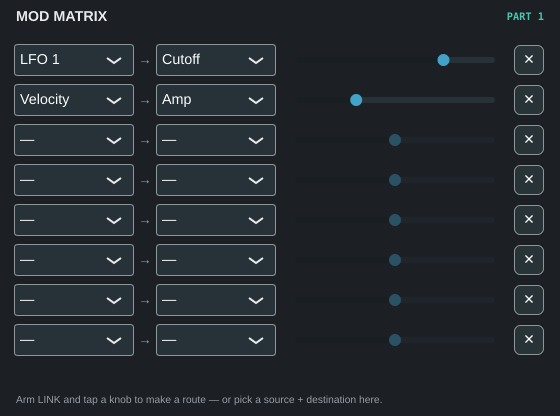
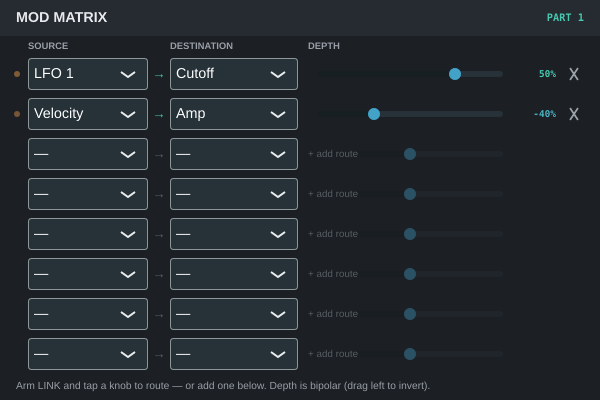
G5(#56): MOD overlay usability rework + docs
The overlay is reworked around the now ~40-target registry:
- CATEGORIZED dropdowns (section-headed by Osc/Filter/Env/LFO/FX/Part for dests, and
  LFO/Envelope/Performance/Macro for sources) — the flat list was unusable at this size.
- SOURCE / DESTINATION / DEPTH column headers; section-header title bar language.
- Numeric bipolar depth read-out (gold positive, cyan inverted) beside each bar.
- A DRAWN remove ✕ (juce::Button paint, no font-glyph/encoding hazard).
- Per-row live-activity dot — brightens with the route's current modulation (block-tier
  reads the live per-dest offset; voice-tier falls back to depth magnitude).
- "+ add route" cue on empty rows; remove hidden until a row is live.

Docs: README mod-matrix bullet rewritten for the registry ("any continuous parameter",
delay-feedback example, categorized overlay); v2 checklist item ticked. docs/editor.png
regenerated (LINK/MOD/INPUTS now in the top bar) and docs/smoke/mod-overlay.png shows the
reworked panel.

Gates: 367/367 (pluginval s8) + --sanitize 366/366 (memory-stable). Goldens bit-identical.

diff --git a/Source/UI/ModMatrixPanel.h b/Source/UI/ModMatrixPanel.h
@@ -8,31 +8,32 @@
 // ============================================================================
 // MOD MATRIX overlay (#56). A modal panel (same no-focus-leak discipline as the Save /
 // INPUTS dialogs) listing the FOCUSED part's 8 routing slots. Each row: a source, an
-// arrow, a destination, a bipolar depth slider (gold = positive, cyan = inverted), and a
-// remove. Routes are usually made by the LINK gesture (arm a source, tap a knob); this
-// overlay is where you inspect, re-point, re-depth, invert and delete them — and you can
-// build a route here from scratch with the two dropdowns.
+// arrow, a destination, a bipolar depth slider (gold = positive, cyan = inverted) with a
+// numeric read-out, a live-activity dot, and a drawn remove ✕. Routes are usually made by
+// the LINK gesture (arm a source, tap a knob); this overlay inspects, re-points, re-depths,
+// inverts and deletes them — or builds one from scratch with the two grouped dropdowns.
+// The destination list is CATEGORIZED (Osc / Filter / Env / LFO / FX / Part) so the ~40
+// targets stay navigable.
 // ============================================================================
 
 class ModMatrixPanel : public juce::Component,
                        private juce::Timer
 {
 public:
+    // Flat name lists indexed by enum id (item id = enum + 1) — used by the LINK source menu
+    // and by tests. The panel's own dropdowns are built grouped (see fillSource/fillDest).
     static juce::StringArray sourceNames()
     {
-        // Item 0 is the "no source" indicator (a real em-dash — must go through u8(); see UiText.h).
         juce::StringArray a { "LFO 1", "LFO 2", "LFO 3", "Mod Env", "Amp Env", "Velocity", "Note",
                               "Mod Wheel", "Pitch Bend", "Random",
                               "Macro 1", "Macro 2", "Macro 3", "Macro 4", "Macro 5", "Macro 6", "Macro 7", "Macro 8" };
-        a.insert (0, uitext::u8 ("\xe2\x80\x94"));
+        a.insert (0, uitext::u8 ("\xe2\x80\x94"));   // item 0 = "no source" (real em-dash via u8)
         return a;
     }
     static juce::StringArray destNames()
     {
-        // Ordered by ModMatrix::Dest id (item id = dest+1). Names come from the registry;
-        // a dest with no registry entry (reserved, e.g. PartLevel/Pan) shows a dash.
         juce::StringArray a;
-        a.add (uitext::u8 ("\xe2\x80\x94"));                       // DstNone
+        a.add (uitext::u8 ("\xe2\x80\x94"));         // DstNone
         for (int d = 1; d < ModMatrix::kNumDests; ++d)
         {
             const auto n = moddest::nameFor (d);
@@ -50,13 +51,12 @@ public:
             r.src  = std::make_unique<juce::ComboBox>();
             r.dst  = std::make_unique<juce::ComboBox>();
             r.depth = std::make_unique<juce::Slider> (juce::Slider::LinearHorizontal, juce::Slider::NoTextBox);
-            fill (*r.src, sourceNames());
-            fill (*r.dst, destNames());
+            fillSource (*r.src);
+            fillDest   (*r.dst);
             r.depth->setRange (-100.0, 100.0, 1.0);
             r.depth->setDoubleClickReturnValue (true, 0.0);
             for (auto* c : { (juce::Component*) r.src.get(), (juce::Component*) r.dst.get(), (juce::Component*) r.depth.get() })
                 { c->setWantsKeyboardFocus (false); addAndMakeVisible (c); }
-            r.remove.setButtonText (uitext::u8 ("\xe2\x9c\x95"));   // ✕ (decode as UTF-8, not ASCII)
             r.remove.setWantsKeyboardFocus (false);
             addAndMakeVisible (r.remove);
 
@@ -71,37 +71,55 @@ public:
             r.remove.onClick  = [this, idx] { proc.clearModSlot (-1, idx); refresh(); };
         }
         refresh();
-        setSize (560, 96 + VASynthProcessor::kModSlots * 40);
-        startTimerHz (20);   // live modulation bars
+        setSize (600, kHeaderH + kColsH + VASynthProcessor::kModSlots * kRowH + kFootH);
+        startTimerHz (20);   // live modulation dots
     }
 
     void paint (juce::Graphics& g) override
     {
         g.fillAll (VASynthLookAndFeel::panel());
+
+        // Title bar — section-header language.
+        auto title = getLocalBounds().removeFromTop (kHeaderH);
+        g.setColour (VASynthLookAndFeel::panelLight());
+        g.fillRect (title);
         g.setColour (VASynthLookAndFeel::ink());
         g.setFont (juce::Font (juce::FontOptions (16.0f, juce::Font::bold)));
-        g.drawText ("MOD MATRIX", getLocalBounds().removeFromTop (34).reduced (16, 0), juce::Justification::centredLeft, false);
+        g.drawText ("MOD MATRIX", title.reduced (16, 0), juce::Justification::centredLeft, false);
         g.setColour (VASynthLookAndFeel::accent());
         g.setFont (juce::Font (juce::FontOptions (juce::Font::getDefaultMonospacedFontName(), 12.0f, juce::Font::bold)));
-        g.drawText ("PART " + juce::String (proc.editFocus() + 1),
-                    getLocalBounds().removeFromTop (34).reduced (16, 0), juce::Justification::centredRight, false);
+        g.drawText ("PART " + juce::String (proc.editFocus() + 1), title.reduced (16, 0), juce::Justification::centredRight, false);
+
+        // Column headers.
+        g.setColour (VASynthLookAndFeel::dim());
+        g.setFont (juce::Font (juce::FontOptions (10.5f, juce::Font::bold)));
+        const auto& c0 = rows[0];
+        auto hdr = [&] (juce::Rectangle<int> b, const char* t, juce::Justification j)
+        { g.drawText (t, b.withY (kHeaderH + 4).withHeight (kColsH - 6), j, false); };
+        if (c0.src)   hdr (c0.src->getBounds(),   "SOURCE",      juce::Justification::centredLeft);
+        if (c0.dst)   hdr (c0.dst->getBounds(),   "DESTINATION", juce::Justification::centredLeft);
+        if (c0.depth) hdr (c0.depth->getBounds(), "DEPTH",       juce::Justification::centredLeft);
+
+        // Footer hint.
         g.setColour (VASynthLookAndFeel::dim());
         g.setFont (juce::Font (juce::FontOptions (11.5f)));
-        g.drawText (uitext::u8 ("Arm LINK and tap a knob to make a route \xe2\x80\x94 or pick a source + destination here."),
-                    juce::Rectangle<int> (16, getHeight() - 24, getWidth() - 32, 16), juce::Justification::centredLeft, false);
+        g.drawText (uitext::u8 ("Arm LINK and tap a knob to route \xe2\x80\x94 or add one below. Depth is bipolar (drag left to invert)."),
+                    juce::Rectangle<int> (16, getHeight() - kFootH + 4, getWidth() - 32, 16), juce::Justification::centredLeft, false);
     }
 
     void resized() override
     {
         auto c = getLocalBounds().reduced (14, 0);
-        c.removeFromTop (40);
+        c.removeFromTop (kHeaderH + kColsH);
         for (int i = 0; i < VASynthProcessor::kModSlots; ++i)
         {
-            auto row = c.removeFromTop (40).reduced (0, 4);
+            auto row = c.removeFromTop (kRowH).reduced (0, 4);
             auto& r = rows[(std::size_t) i];
+            row.removeFromLeft (14);                                    // activity-dot gutter
             r.src->setBounds  (row.removeFromLeft (120));               row.removeFromLeft (22);   // arrow gap
-            r.dst->setBounds  (row.removeFromLeft (120));               row.removeFromLeft (10);
-            r.remove.setBounds (row.removeFromRight (34).reduced (2, 1)); row.removeFromRight (8);
+            r.dst->setBounds  (row.removeFromLeft (128));               row.removeFromLeft (10);
+            r.remove.setBounds (row.removeFromRight (24).reduced (1, 3)); row.removeFromRight (6);
+            r.numArea = row.removeFromRight (44);                       // numeric depth read-out
             r.depthArea = row;
             r.depth->setBounds (row);
         }
@@ -109,15 +127,41 @@ public:
 
     void paintOverChildren (juce::Graphics& g) override
     {
-        // arrows between the two dropdowns + the live-modulation tick on each depth bar
-        g.setColour (VASynthLookAndFeel::accent());
-        g.setFont (juce::Font (juce::FontOptions (15.0f, juce::Font::bold)));
         for (int i = 0; i < VASynthProcessor::kModSlots; ++i)
         {
             auto& r = rows[(std::size_t) i];
+            const auto s = proc.getModSlot (-1, i);
+            const bool live = s.source != ModMatrix::SrcNone && s.dest != ModMatrix::DstNone;
+
+            // Arrow between the dropdowns.
             const auto sb = r.src->getBounds();
+            g.setColour (live ? VASynthLookAndFeel::accent() : VASynthLookAndFeel::dim().withAlpha (0.5f));
+            g.setFont (juce::Font (juce::FontOptions (15.0f, juce::Font::bold)));
             g.drawText (uitext::u8 ("\xe2\x86\x92"), juce::Rectangle<int> (sb.getRight(), sb.getY(), 22, sb.getHeight()),
                         juce::Justification::centred, false);
+
+            if (! live)
+            {
+                // Empty slot: a faint "+ add route" cue across the (disabled) depth area.
+                g.setColour (VASynthLookAndFeel::dim().withAlpha (0.5f));
+                g.setFont (juce::Font (juce::FontOptions (11.0f)));
+                g.drawText ("+ add route", r.depthArea.toNearestInt(), juce::Justification::centredLeft, false);
+                continue;
+            }
+
+            // Numeric depth read-out (gold positive, cyan inverted).
+            g.setColour (s.depth < 0.0f ? juce::Colour (0xff4bb3c4) : VASynthLookAndFeel::accent());
+            g.setFont (juce::Font (juce::FontOptions (juce::Font::getDefaultMonospacedFontName(), 11.0f, juce::Font::bold)));
+            g.drawText (juce::String (juce::roundToInt (s.depth * 100.0f)) + "%",
+                        r.numArea, juce::Justification::centredRight, false);
+
+            // Live-activity dot: brightens with the route's current modulation (block-tier reads
+            // the live per-dest offset; voice-tier pulses on the depth magnitude as a fallback).
+            const float act = liveActivity (s);
+            auto dot = juce::Rectangle<float> (getLocalBounds().reduced (16, 0).toFloat().getX() - 2.0f,
+                                               (float) r.depth->getBounds().getCentreY() - 3.0f, 6.0f, 6.0f);
+            g.setColour (VASynthLookAndFeel::accentWarm().withAlpha (0.25f + 0.75f * juce::jlimit (0.0f, 1.0f, act)));
+            g.fillEllipse (dot);
         }
     }
 
@@ -147,7 +191,6 @@ public:
         rows[(std::size_t) i].depth->setValue (depth * 100.0, juce::sendNotificationSync);
     }
 
-    // Public so the full edit path is testable without the GUI.
     void refresh()
     {
         for (int i = 0; i < VASynthProcessor::kModSlots; ++i)
@@ -160,24 +203,71 @@ public:
             const bool live = s.source != ModMatrix::SrcNone && s.dest != ModMatrix::DstNone;
             r.depth->setEnabled (live);
             r.depth->setAlpha (live ? 1.0f : 0.4f);
+            r.remove.setVisible (live);
         }
         repaint();
     }
 
 private:
-    static void fill (juce::ComboBox& box, const juce::StringArray& names)
+    // A drawn ✕ (no font-glyph dependency — see the mojibake defect).
+    struct XButton : juce::Button
     {
-        for (int i = 0; i < names.size(); ++i) box.addItem (names[i], i + 1);   // item id = enum + 1
+        XButton() : juce::Button ("remove") {}
+        void paintButton (juce::Graphics& g, bool over, bool) override
+        {
+            auto b = getLocalBounds().toFloat().reduced (getWidth() * 0.32f);
+            g.setColour (over ? juce::Colour (0xffd8443a) : VASynthLookAndFeel::dim());
+            g.drawLine (b.getX(), b.getY(), b.getRight(), b.getBottom(), 1.8f);
+            g.drawLine (b.getX(), b.getBottom(), b.getRight(), b.getY(), 1.8f);
+        }
+    };
+
+    // Grouped source dropdown (section headings keep item ids intact so setSelectedId/getText work).
+    void fillSource (juce::ComboBox& box)
+    {
+        box.addItem (uitext::u8 ("\xe2\x80\x94"), 1);                    // None (source 0 + 1)
+        auto add = [&] (int src) { box.addItem (sourceNames()[src], src + 1); };
+        box.addSectionHeading ("LFO");         for (int s = ModMatrix::LFO1; s <= ModMatrix::LFO3; ++s) add (s);
+        box.addSectionHeading ("Envelope");    add (ModMatrix::ModEnv); add (ModMatrix::AmpEnv);
+        box.addSectionHeading ("Performance"); for (int s = ModMatrix::Velocity; s <= ModMatrix::Random; ++s) add (s);
+        box.addSectionHeading ("Macro");       for (int s = ModMatrix::Macro1; s <= ModMatrix::Macro8; ++s) add (s);
         box.setSelectedId (1, juce::dontSendNotification);
     }
+
+    // Grouped destination dropdown, by registry category.
+    void fillDest (juce::ComboBox& box)
+    {
+        box.addItem (uitext::u8 ("\xe2\x80\x94"), 1);                    // None (dest 0 + 1)
+        for (int cat = 0; cat < moddest::kNumCategories; ++cat)
+        {
+            bool headed = false;
+            for (auto& e : moddest::table())
+                if (e.category == cat)
+                {
+                    if (! headed) { box.addSectionHeading (moddest::categoryName (cat)); headed = true; }
+                    box.addItem (e.name, e.dest + 1);
+                }
+        }
+        box.setSelectedId (1, juce::dontSendNotification);
+    }
+
+    float liveActivity (const ModMatrix::Slot& s) const
+    {
+        if (s.dest >= ModMatrix::kFirstBlockDest)
+            return std::abs (proc.blockModOffset (s.dest)) * 4.0f;      // block-tier: live per-dest offset
+        return std::abs (s.depth) * 0.6f;                              // voice-tier: fall back to depth magnitude
+    }
+
     void timerCallback() override { repaint(); }
+
+    static constexpr int kHeaderH = 36, kColsH = 18, kRowH = 40, kFootH = 26;
 
     struct Row
     {
         std::unique_ptr<juce::ComboBox> src, dst;
         std::unique_ptr<juce::Slider>   depth;
-        juce::TextButton                remove;
-        juce::Rectangle<int>            depthArea;
+        XButton                         remove;
+        juce::Rectangle<int>            depthArea, numArea;
     };
 
     VASynthProcessor& proc;

diff --git a/README.md b/README.md
@@ -30,11 +30,17 @@ a general-purpose synth that runs in any VST3 host or standalone.
 - **8 macros**, pre-assigned to musical defaults (cutoff, reso, filter-env, release, LFO
   rate/depth, reverb, focused-part level), routable to any parameter; Launchkey pots drive them.
 - **Mod matrix** (per part, 8 slots): route any source (3 LFOs, mod/amp env, velocity, note,
-  mod wheel, pitch bend, random, the 8 macros) to any destination (pitch, cutoff, resonance,
-  pulse width, amp, osc 1–3 level). Wire routes by **touch-connect** — hit **LINK**, pick a
-  source, then tap a glowing destination knob; drag that knob within ~2 s to set the depth in
-  one gesture. The **MOD** overlay lists, re-points, inverts, re-depths, and deletes routes.
-  Routes travel with the patch; the matrix is bit-identical passthrough when empty.
+  mod wheel, pitch bend, random, the 8 macros) to **any continuous parameter of the focused
+  part** — a categorized registry of ~40 targets across Osc (pitch, PW, levels, octave/detune),
+  Filter (cutoff, resonance, env-amt, keytrack, vel), Env (all ADSR stages + vel/amp), LFO
+  (1–3 rate/depth), FX (chorus/delay/reverb/width — e.g. an LFO or Macro wobbling **delay
+  feedback**), and per-part EQ gains. Combinations are just more slots (summed). The 5 classic
+  per-voice targets keep full per-voice fidelity; block-level targets (FX/EQ/LFO/env) modulate
+  at control rate. Wire routes by **touch-connect** — hit **LINK** (top bar), pick a source,
+  then tap a glowing destination knob; drag it within ~2 s to set the depth in one gesture. The
+  **MOD** overlay (categorized dropdowns, bipolar depth read-out, live-activity dots) inspects,
+  re-points, inverts, re-depths, and deletes routes. Routes travel with the patch; the matrix is
+  bit-identical passthrough when empty.
 - **Bulletproof output stage**: voice-sum headroom trim + transparent safety
   soft-clip, so the output never clips the DAC on dense chords.
 - **Diatonic chord engine**: one finger → an in-key chord (Major / Natural Minor,
@@ -444,7 +450,7 @@ out-of-range peaks, and non-finite samples. The `[click]` suite runs in every ga
   a show-all toggle) needs a custom `AudioDeviceManager`/plugin-holder — deferred.
 
 **v2 (make it deep)**
-- [ ] Mod matrix (any source → any destination, replaces single LFO dest)
+- [x] Mod matrix — any source → any continuous parameter (registry-driven), touch-connect LINK + categorized overlay
 - [ ] Second LFO, per-voice LFO option, MIDI-clock sync
 - [ ] Unison/detune stacking, hard sync osc2→osc1
 - [ ] Sub-oscillator, filter drive/saturation
